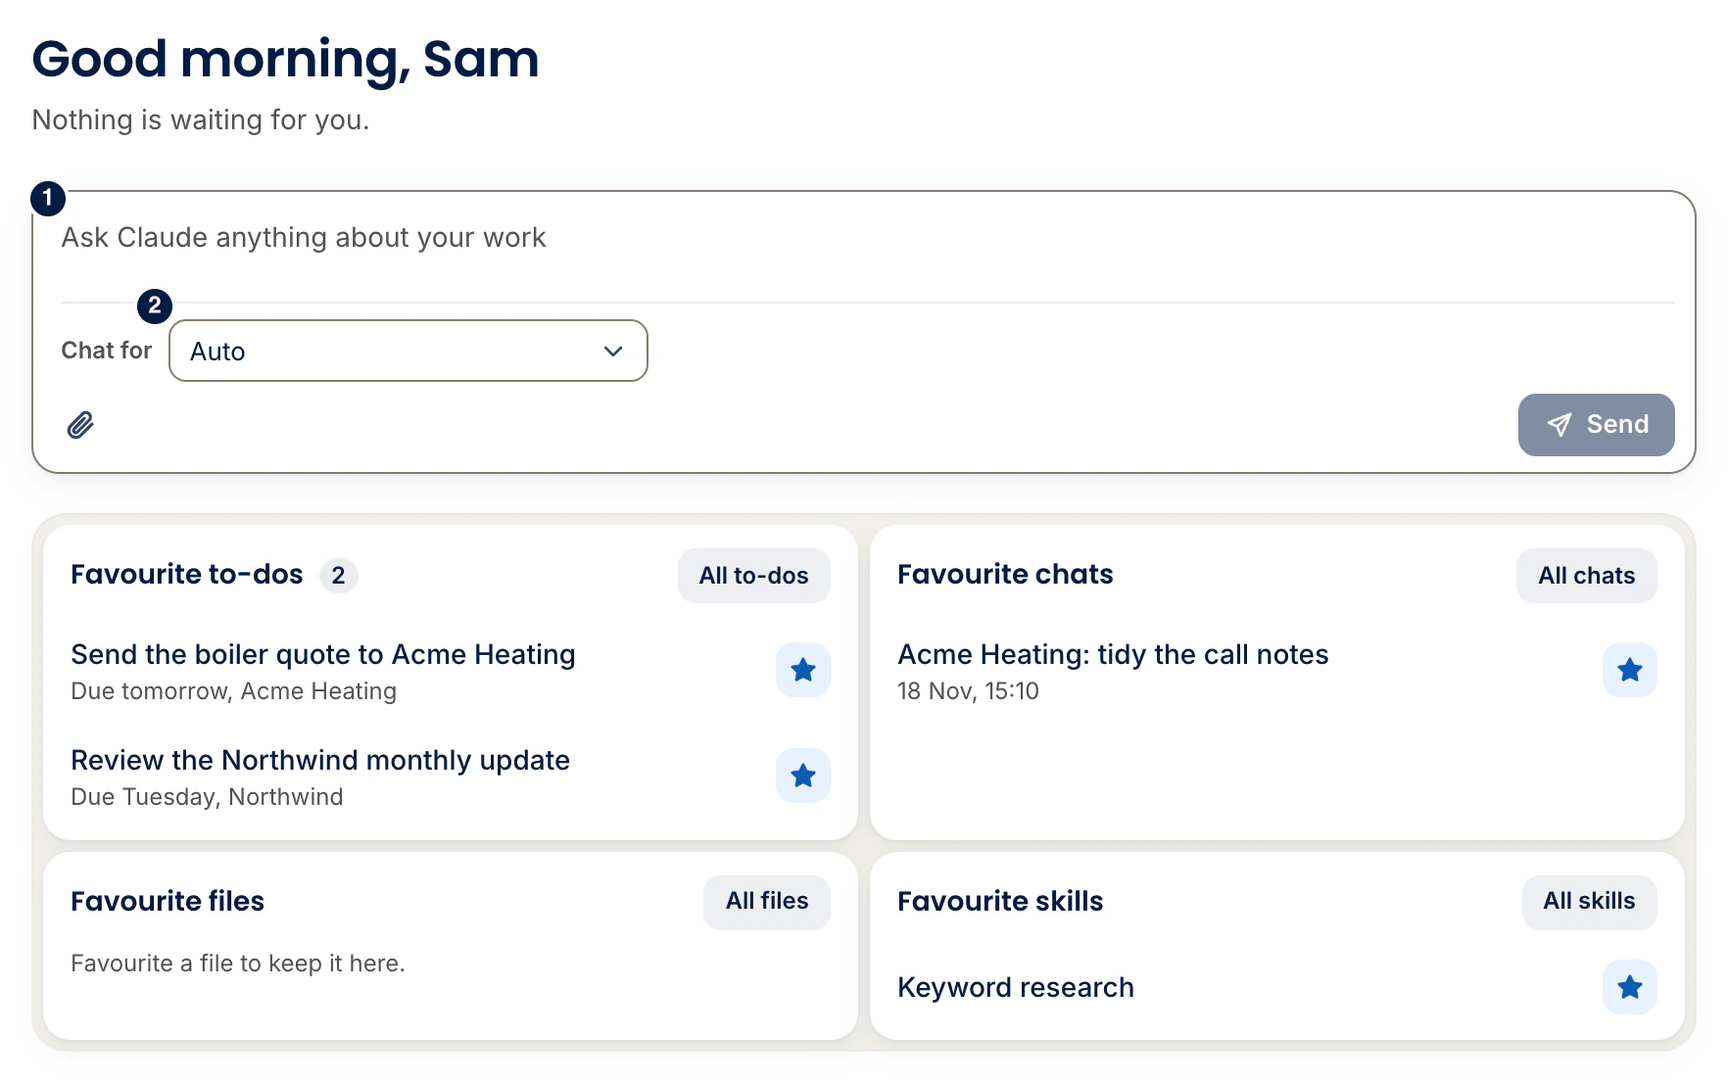
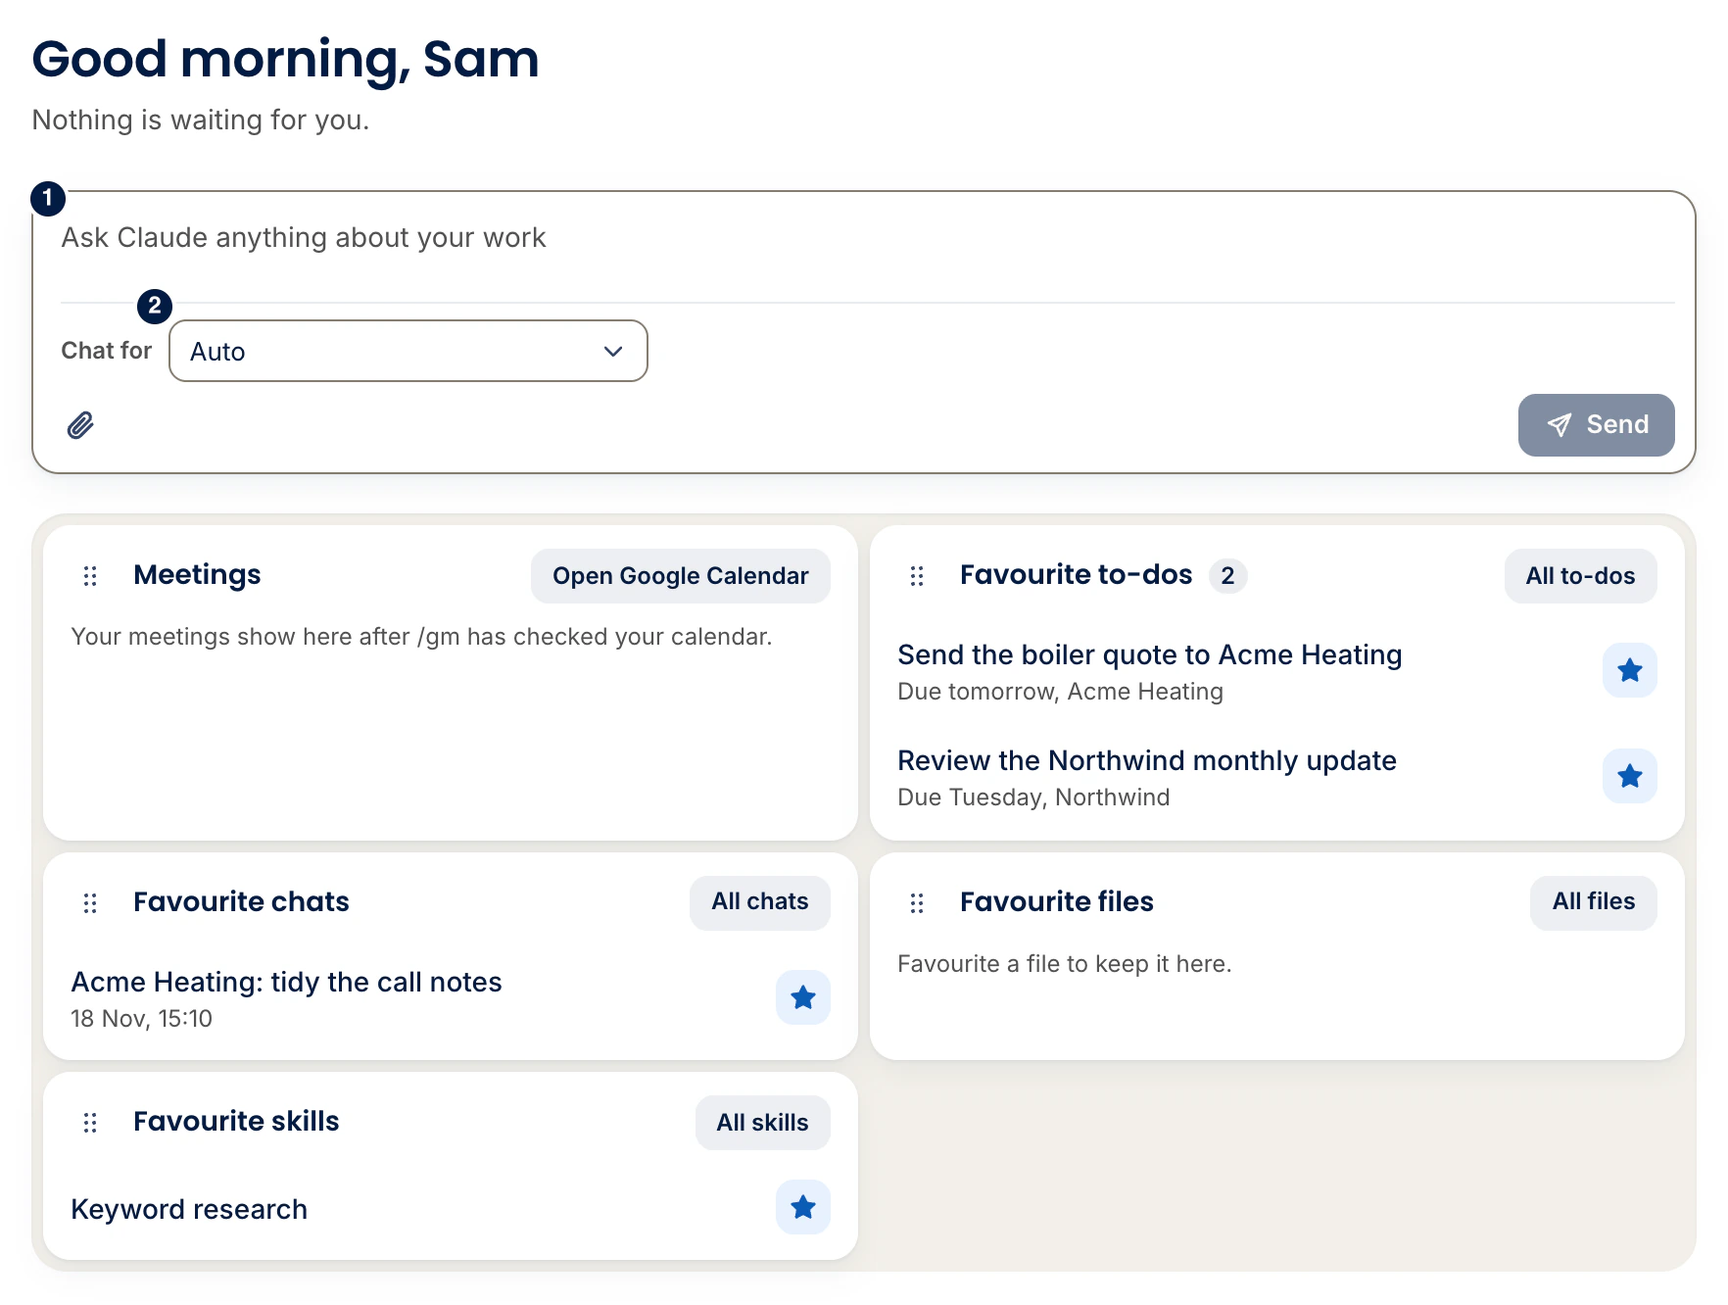
docs(help): catch the help up with v0.55-v0.73
- What's new notes for each release that changed what people see, from
  Projects (0.55.0) to Home card order (0.73.0); the Home card was still
  showing the 0.54.0 note.
- Pages fixed against the code: Home (Chat for, Working on, Meetings and
  Ads approvals cards, keyboard card moves), Meetings, Projects, To-dos
  (Project filter and chips), Adding to-dos (Project and Stage), Updates
  (rail foot button), Keyboard shortcuts, Chats drawer (+ and End chat),
  Talking to Claude (Send again), Viewing a file, Search (Projects rows),
  Ads Command Centre (leave guard), Pages Claude makes, Welcome, Glossary.
- Home overview screenshot retaken (Meetings card, grips); alt text says
  Chat for, not "client picker".

diff --git a/client/src/help/whats-new.test.ts b/client/src/help/whats-new.test.ts
@@ -84,8 +84,8 @@ describe('parseNote and loadNotes', () => {
     };
     expect(loadNotes(files).map((n) => n.version)).toEqual(['0.40.0', '0.9.0']);
   });
-  it('bundles the 0.54.0, 0.53.0 and 0.52.0 notes, newest first', () => {
-    expect(whatsNewNotes.slice(0, 3).map((n) => n.version)).toEqual(['0.54.0', '0.53.0', '0.52.0']);
+  it('bundles the 0.73.0, 0.72.0 and 0.71.0 notes, newest first', () => {
+    expect(whatsNewNotes.slice(0, 3).map((n) => n.version)).toEqual(['0.73.0', '0.72.0', '0.71.0']);
   });
 });
 

diff --git a/help/home.md b/help/home.md
@@ -6,9 +6,9 @@ order: 1
 summary: Start a chat, pick a client and see what needs you today.
 benefit: Go from "I need to do this" to a working chat in one step.
 roles: all
-related: [talking-to-claude, chats-drawer, todos, skills, updates]
+related: [talking-to-claude, picking-the-client, meetings, chats-drawer, todos, updates]
 since: 0.36.0
-reviewed: 2026-11-15
+reviewed: 2026-11-24
 ---
 
 ## What it does
@@ -19,25 +19,25 @@ Home is the first screen you see in TDS Cortex. It has a message box for startin
 
 - You can start work straight away, without hunting for the right place.
 - Claude uses the right client's notes, so answers fit the job.
-- Your pinned to-dos, chats and files are one click away.
+- Your favourite to-dos, chats and files are one click away.
 
 ## How to use it
 
 1. Click the message box (1). It says "Ask Claude anything about your work".
 2. Type what you need, in plain words.
-3. Leave the client picker (2) on **Auto**. Cortex then works out which client you mean. If it isn't sure, it asks you.
-4. Or pick a client yourself. Choose **No client** if the job isn't about one.
+3. Leave **Chat for** (2) on **Auto**. Cortex then works out which client you mean. If it isn't sure, it asks you.
+4. Or pick a client yourself. Choose **No client** if the job isn't about one. If you are busy on one project, set **Working on** to it. See [Picking the client](help:picking-the-client).
 5. Press **Send**.
 
-![The message box on Home, with the client picker set to Auto.](images/home-start.webp)
+![The message box on Home, with Chat for set to Auto.](images/home-start.webp)
 
-Under the box you will see your pinned to-dos, pinned chats and pinned files. If you have no favourite skills yet, Home shows the ones you use most. A skill is a saved set of steps Claude follows. See [Skills](help:skills).
+Under the box you will see your [meetings](help:meetings), then your favourite to-dos, chats and files. While an Ads change waits for your yes, an **Ads approvals** card shows too. If you have no favourite skills yet, Home shows the ones you use most. A skill is a saved set of steps Claude follows. See [Skills](help:skills).
 
 ## Good to know
 
 - Your chat opens as soon as you send, and you can follow it in the [Chats drawer](help:chats-drawer).
 - Pick a skill first, and Home starts the chat from that skill.
-- To move a card, drag the grip beside its heading. Your order is kept on this computer. **Reset card order** puts it back.
+- To move a card, drag the grip beside its heading. Or put the keyboard on the grip and use the arrow keys. Your order is kept on this computer. Once you have moved a card, **Reset card order** puts them back.
 - After an update, a What's new card may show above the message box. It says what changed and links to Help. Press **Close** to hide it. See [Updates and what's new](help:updates).
 
 ## Try this

diff --git a/help/adding-todos.md b/help/adding-todos.md
@@ -8,7 +8,7 @@ benefit: A job is written down the moment you think of it, so it can't be forgot
 roles: all
 related: [todos, files-on-todos, passing-todos-on, personal-todos, change-todos-setting]
 since: 0.38.0
-reviewed: 2026-11-20
+reviewed: 2026-11-24
 ---
 
 ## What it does
@@ -17,7 +17,7 @@ You can add a to-do, give it a due date, change it later or delete it. A wide pa
 
 ## Why it helps
 
-- Writing it down takes seconds, so you stay in your flow.
+- Writing it down takes seconds, so you stay in flow.
 - Claude can help you plan or finish the job, with the to-do already in front of it.
 
 ## How to use it
@@ -25,10 +25,10 @@ You can add a to-do, give it a due date, change it later or delete it. A wide pa
 1. First switch on **Let the app change to-dos** in Settings (**General** tab). Until then you can read to-dos but not change them.
 2. Open the To-dos drawer and press **Add a to-do**. The panel opens.
 3. Type what needs doing and press **Add**. It goes to you, with no date. For a date or a person first, press **More options**.
-4. If you want to write more, fill in the optional **Details** box before you press **Add**. After you add one for yourself, the panel stays on it. You can add files from there.
+4. To write more, fill in the optional **Details** box before you press **Add**. After you add one for yourself, the panel stays on it. You can add files from there.
 5. To read a to-do, press its title. To change it, press **Edit**, then **Save**. In the details box you can add headings, bullet and numbered lists, tick lists, bold text and links.
 6. To tick off a step in a tick list, press its box while you read. It saves straight away.
-7. Use the up and down buttons at the top of the panel to change to-do. **P** and **N** do the same when single-key shortcuts are on.
+7. Use the up and down buttons at the top to change to-do. **P** and **N** do the same when single-key shortcuts are on.
 8. To ask Claude for help, press **Start a chat**. Press **Open chat** later to come back to it.
 
 ![The panel for adding a to-do, with a due date and who it's for.](images/todo-add.webp)
@@ -38,6 +38,7 @@ You can add a to-do, give it a due date, change it later or delete it. A wide pa
 - Esc closes the panel, even while you type. With unsaved changes, Cortex asks first. It also asks before a chat, another page or another to-do.
 - If a teammate changes a to-do while you edit it, Cortex tells you. You choose whether to keep your version or theirs.
 - **Delete** and **Mark as done** wait a few seconds, so you can undo them.
+- **More options** has **Project** and **Stage**. **Working on** on Home fills in the project.
 - Very long details, tables, code and quotes can't be edited here. Change those in a chat.
 
 ## Try this

diff --git a/help/projects.md b/help/projects.md
@@ -6,9 +6,9 @@ order: 3
 summary: See every project, who is on it, its to-dos and its files, in one place.
 benefit: Know how each project is going without asking around.
 roles: all
-related: [project-codes, todos, documents, images, picking-the-client, home]
+related: [project-codes, meetings, todos, documents, images, picking-the-client, home]
 since: 0.55.0
-reviewed: 2026-11-23
+reviewed: 2026-11-24
 ---
 
 ## What it does
@@ -22,15 +22,15 @@ Projects shows the team's work for each client: each project's brief, team, to-d
 
 ## How to use it
 
-1. Open Projects from the rail.
+1. Open Projects, just under Home.
 2. Choose **Mine** for your projects, or filter by status, Account Owner and service.
-3. Open a project. **Overview** shows what's new, what's due and the team. **To-dos** shows what is open. **Updates** logs notes, calls and status changes. Notes stay internal unless you tick **Fine to share with the client**. **Files** lists documents and images, with the same filters as Documents. **Add files** adds some from the library; the cross takes one off.
+3. Open a project. **Overview** shows what's new, what's due and the team. **To-dos** shows what is open. **Updates** logs notes, calls and status changes. Notes stay internal unless you tick **Fine to share with the client**. **Files** lists documents and images, with the same filters as Documents. **Add files** adds library files; the cross removes one. **Add a claude.ai page** adds a claude.ai page.
 4. **New project** adds one; **Edit** changes one. **Add to team** keeps a person marked "from to-dos".
-5. **New chat for this project** starts a chat whose files are saved in the project, under **Files**.
+5. **New chat for this project** starts a chat that saves its files here.
 6. **Move** moves a project to another client.
 7. When a project is finished, press **Archive** and choose what happens to each open to-do.
-8. Archived projects are under the **Archived** status filter. **Unarchive** brings one back.
-9. On a tidy-up notice, press **Tidy up** and review each label.
+8. Find archived projects under the **Archived** filter. **Unarchive** brings one back.
+9. On a tidy-up notice, press **Tidy up**, then check each label.
 10. To remove an archived project, press **Delete** and type its name.
 
 ## Good to know

diff --git a/help/chats-drawer.md b/help/chats-drawer.md
@@ -8,7 +8,7 @@ benefit: Never lose a conversation, and switch between jobs in a click.
 roles: all
 related: [talking-to-claude, approvals-and-questions, home]
 since: 0.36.0
-reviewed: 2026-11-23
+reviewed: 2026-11-24
 ---
 
 ## What it does
@@ -25,7 +25,7 @@ The Chats drawer lists every chat you have with Claude. It keeps the ones you're
 
 1. Open the Chats drawer from the rail.
 2. Use the switch at the top (1). **Open** shows the chats you're using now. **Earlier** shows past ones.
-3. Click any chat to carry on with it.
+3. Click any chat to carry on with it. To start a new one, press the **+** button at the end of the switch row.
 4. In **Earlier**, chats are grouped by when you last used them. Starred chats sit at the top.
 
 ![The Chats drawer with two open chats and the Earlier switch.](images/chats-drawer.webp)
@@ -35,9 +35,9 @@ Once you have a personal chat, a second switch appears. It filters by **All**, *
 ## Good to know
 
 - Each chat shows its client and project under its title, such as Acme Heating · Site rebuild. The list isn't narrowed by **Working on** yet, so every chat is always shown.
-- You can have up to four chats open at once. If you start a fifth, the one you left longest is closed. If all four are busy, wait or close one.
+- You can have up to four chats open at once. If you start a fifth, the one you left longest is closed. If all four are busy, wait or end one.
 - A chat you haven't used for 30 minutes goes to sleep, and so does every open chat when the app updates. Send a message in it as usual: it wakes up where you left off, with your message, and goes back under **Open**.
-- Close a chat before you delete it.
+- To end an open chat, press the **End chat** button on its row. You can only delete a chat once it has ended.
 - Deleting an earlier chat moves it to the Bin on your Mac. You can put it back from there.
 - If Claude hands parts of a job to helpers, they're listed under that chat.
 

diff --git a/help/updates.md b/help/updates.md
@@ -8,7 +8,7 @@ benefit: You get fixes and new features without installing anything by hand.
 roles: all
 related: [settings, getting-help, version-history, health, fixing-problems]
 since: 0.38.0
-reviewed: 2026-11-20
+reviewed: 2026-11-24
 ---
 
 ## What it does
@@ -25,9 +25,10 @@ Cortex checks for a newer version a few minutes after it starts, then about ever
 
 1. When the bar says a new version is available, press **Update and restart**.
 2. If chats are open, Cortex warns you that updating closes them. Press **Update now**, or **Not now** to wait.
-3. To check yourself, open Settings, then the **About** tab. Under **About TDS Cortex on this computer**, find **App version** and press **Check for updates**.
-4. If you're busy, press **Later** on the bar.
-5. After an update, a What's new card may show on Home with a short note. Press **Close** to hide it.
+3. The foot of the menu on the left shows your version. When an update is ready, press **Update** there. Otherwise, press the **Check for updates** button beside it to check now.
+4. You can also check in Settings: open Settings, then the **About** tab. Under **About TDS Cortex on this computer**, find **App version** and press **Check for updates**.
+5. If you're busy, press **Later** on the bar.
+6. After an update, a What's new card may show on Home with a short note. Press **Close** to hide it.
 
 ## Good to know
 
@@ -38,4 +39,4 @@ Cortex checks for a newer version a few minutes after it starts, then about ever
 
 ## Try this
 
-Open Settings, then the **About** tab, and press **Check for updates**. It tells you if you have the newest version.
+Press **Check for updates** at the foot of the menu. It tells you if you have the newest version.

diff --git a/help/search-and-jump.md b/help/search-and-jump.md
@@ -8,7 +8,7 @@ benefit: Get anywhere in a few key presses, without hunting through drawers.
 roles: all
 related: [keyboard-shortcuts, home, getting-help]
 since: 0.38.0
-reviewed: 2026-11-20
+reviewed: 2026-11-24
 ---
 
 ## What it does
@@ -24,7 +24,7 @@ reviewed: 2026-11-20
 ## How to use it
 
 1. Press **⌘K** on a Mac, or **Ctrl K** on Windows. You can also press the **Search or jump to** button at the top. When you aren't typing, the slash key (/) works too.
-2. Type a few letters. Results are grouped: Go to, To-dos, Open chats, Skills, Clients and Earlier chats. Files from Documents and Images show too.
+2. Type a few letters. Results are grouped: Go to, To-dos, Open chats, Skills, Clients, Projects, Earlier chats and Help. Files from Documents and Images show too.
 3. Use the up and down arrow keys to move through the results.
 4. Press Enter to open the one you want. Press Esc to close the box without choosing.
 
@@ -34,7 +34,7 @@ reviewed: 2026-11-20
 
 - With nothing typed, the box shows places to go and a few of your own to-dos and chats, and your favourite skills.
 - Each group shows its best six matches.
-- Picking a client starts a new chat for that client.
+- Picking a client starts a new chat for that client. Each project shows two rows. **Open project** opens it. **Filter to this project** sets **Working on** to it on Home. You can find a project by its code too.
 - Picking a skill starts a chat with that skill.
 - **Help** is here too, and help pages show in the results.
 - The slash key needs **Single-key shortcuts** switched on in Settings (**General** tab). **⌘K** works everywhere except an open file. Press Esc to close the file first.

diff --git a/help/keyboard-shortcuts.md b/help/keyboard-shortcuts.md
@@ -8,7 +8,7 @@ benefit: Move around Cortex quickly without reaching for the mouse.
 roles: all
 related: [search-and-jump, settings, getting-help]
 since: 0.38.0
-reviewed: 2026-11-20
+reviewed: 2026-11-24
 ---
 
 ## What it does
@@ -24,13 +24,13 @@ Cortex has a few keys that open drawers and search. Most are single keys, so the
 ## How to use it
 
 1. Press **⌘K** (**Ctrl K** on Windows) to open **Search or jump to**. This works even while you type, but not while a file is open in the viewer.
-2. When you aren't typing, press **T** for To-dos, **C** for Chats and **S** for Skills. If you have the Workbench, **W** opens it.
+2. When you aren't typing, press **T** for To-dos, **C** for Chats and **S** for Skills (owners and scouts only). If you have the Workbench, **W** opens it.
 3. Press **[** to show or hide the names on the rail.
 4. Press the slash key (/) to open search.
 5. Press **H** or **?** to open Help.
 6. With a to-do open in its panel, press **P** for the previous to-do and **N** for the next.
 7. While you read a to-do in its panel, press **E** to edit it. While you edit, press ⌘ and Enter (Ctrl and Enter on Windows) to save.
-8. Press Esc to close the search box, then the to-do panel, then a drawer, one step at a time. If the to-do panel has unsaved changes, it asks first.
+8. Press Esc to close the search box, then the to-do panel, then a drawer, one step at a time. If the to-do panel has unsaved changes, it asks first. So does any form you have typed in before you leave it.
 
 In the message box, press Enter to send. Press Shift and Enter for a new line.
 

diff --git a/help/todos.md b/help/todos.md
@@ -8,7 +8,7 @@ benefit: Nothing slips through the cracks, and everyone can see who's doing what
 roles: all
 related: [home, talking-to-claude, skills, asked-of-others]
 since: 0.36.0
-reviewed: 2026-11-20
+reviewed: 2026-11-24
 ---
 
 ## What it does
@@ -26,9 +26,10 @@ The To-dos drawer shows your to-dos and the team's open ones. They live in the B
 1. Open the To-dos drawer from the rail.
 2. To make changes, first switch on **Let the app change to-dos** in Settings (**General** tab). Until then you can only read the list.
 3. **Mine** shows what is yours. **Open** shows jobs nobody has taken. **Asked** shows what you passed on to others (see Asked of others).
-4. Press a to-do's title to read it in a wide panel. Press **Mark as done** when it's finished.
-5. To add one, press the **+** button (1), type it and press Enter.
-6. To hand a to-do over, open it, press **Edit** and change who it's assigned to.
+4. Pick a project in the **Project** filter to see only its to-dos, on any tab. A to-do in a project shows its name. Press the name to filter by it. **Working on** on Home sets this filter too.
+5. Press a to-do's title to read it in a wide panel. Press **Mark as done** when it's finished.
+6. To add one, press the **+** button (1), type it and press Enter.
+7. To hand a to-do over, open it, press **Edit** and change who it's assigned to.
 
 ![The To-dos drawer with the Mine tab open.](images/todos-drawer.webp)
 

diff --git a/help/meetings.md b/help/meetings.md
@@ -23,15 +23,16 @@ The **Meetings** card on Home lists your coming meetings from your own calendar,
 
 ## How to use it
 
-1. Open Home. The **Meetings** card is the first card under the message box.
+1. Open Home. The **Meetings** card is the first card under the message box, unless you have moved it.
 2. Press the calendar icon beside a meeting to open its invite in Google Calendar. It opens in a new tab.
 3. Press **Join** to open the video call. It shows from 15 minutes before the start.
 4. Press a project's name to open that project.
-5. Press the Show more button to see the rest.
+5. The card shows all of today, and at least three meetings. If there are more, press the button under the list to see them. **Show fewer** folds the list again.
+6. **Open Google Calendar** opens your whole calendar in a new tab.
 
 ## Good to know
 
-- The card says when your calendar was last checked. If it's old, run /gm to update it.
+- The card says when your calendar was last checked. If it's old, run /gm to update it. Until /gm has checked your calendar once, the card is empty.
 - **Working on** doesn't narrow your meetings. You always see them all.
 - If a meeting has no event page of its own, the calendar icon opens that day instead.
 - On a project's page, the same link reads **Open invite**.

diff --git a/help/viewing-a-file.md b/help/viewing-a-file.md
@@ -8,7 +8,7 @@ benefit: Read a file without losing your place.
 roles: all
 related: [documents, images, pinned, chat-files]
 since: 0.38.0
-reviewed: 2026-11-15
+reviewed: 2026-11-24
 ---
 
 ## What it does
@@ -23,9 +23,9 @@ The file viewer opens a document, picture or PDF in a wide panel that slides ove
 
 ## How to use it
 
-1. On Home, click a file in the **Favourite files** card. In a chat's Files tab, click the file, then press **Open**.
+1. Open a file from Documents, Images, a project's **Files** tab or search. On Home, click a file in the **Favourite files** card. In a chat's Files tab, click the file, then press **Open**.
 2. Read it. The name is at the top, with where it lives under it.
-3. Press **Open in Documents** (or **Open in Images**) to carry on in that app.
+3. Press **Open in Documents** (or **Open in Images**) to carry on in that app. It opens with the file's details showing.
 4. Press **Download** to save a copy.
 5. Press the star to make it a favourite.
 6. Press **Close file**, or press Esc, to go back.

diff --git a/help/welcome.md b/help/welcome.md
@@ -25,9 +25,9 @@ Claude already knows our clients, our notes and our way of doing things. You don
 - Hand things over. Pass a to-do to a teammate, and they see it the next time their Brain syncs.
 - Share with the team. Anything Claude files in the Brain is there for everyone who needs it. Nobody has to set up access.
 
-![Home in TDS Cortex, with the message box, the client picker and your favourite cards.](images/home-overview.webp)
+![Home in TDS Cortex, with the message box, the Chat for picker, and the Meetings and favourite cards.](images/home-overview.webp)
 
-Home is where you start. The big box under the greeting is for your message (1). Inside it, at the bottom left, is the client picker (2). Your pinned cards sit underneath.
+Home is where you start. The big box under the greeting is for your message (1). Inside it is **Chat for** (2), which picks the client. Your meetings and favourite cards sit underneath.
 
 ## Take the tour
 
